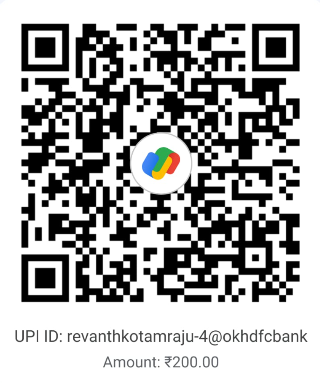
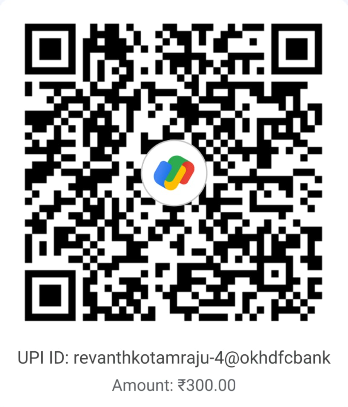
Update fees, timeline CMS, and announcement details

Changed region(s): [[0.0625, 0.0574, 0.9375, 0.8042], [0.0312, 0.8616, 0.9688, 0.9765]]

diff --git a/src/components/Timeline.jsx b/src/components/Timeline.jsx
@@ -1,22 +1,47 @@
-import { useEffect, useRef } from 'react'
+import { useEffect, useRef } from 'react'
 import { gsap } from 'gsap'
 import { ScrollTrigger } from 'gsap/ScrollTrigger'
 import { ClipboardList, Gavel, Shirt, Swords, Trophy, PartyPopper } from 'lucide-react'
 
 gsap.registerPlugin(ScrollTrigger)
 
-const events = [
-  { icon:<ClipboardList size={20}/>, title:'Registrations Open', date:'Coming Soon', desc:'Register online and pay the Rs.200 entry fee to join the player pool.' },
-  { icon:<Gavel         size={20}/>, title:'Player Auction',      date:'Coming Soon', desc:'Faculty team owners bid for players in a high-energy live auction.' },
-  { icon:<Shirt         size={20}/>, title:'Team Reveal',         date:'Coming Soon', desc:'Final squads announced and jersey numbers assigned.' },
-  { icon:<Swords        size={20}/>, title:'League Matches',      date:'Coming Soon', desc:'Round-robin T10 league stage â€” every match, every ball counts.' },
-  { icon:<Trophy        size={20}/>, title:'Knockouts & Finals',  date:'Coming Soon', desc:'Semi-finals and the Grand Finale for the VPL championship.' },
-  { icon:<PartyPopper   size={20}/>, title:'Awards Ceremony',     date:'Coming Soon', desc:'Best Batsman, Bowler, and Player of Tournament awarded.' },
+const EVENT_ICONS = [
+  <ClipboardList size={20} />,
+  <Gavel size={20} />,
+  <Shirt size={20} />,
+  <Swords size={20} />,
+  <Trophy size={20} />,
+  <PartyPopper size={20} />,
 ]
 
-export default function Timeline() {
-  const lineRef  = useRef(null)
+const DEFAULT_EVENTS = [
+  { title: 'Registrations Open', date: 'Coming Soon', desc: 'Register online and pay the Rs.300 entry fee to join the player pool.' },
+  { title: 'Player Auction', date: 'Coming Soon', desc: 'Faculty team owners bid for players in a high-energy live auction.' },
+  { title: 'Team Reveal', date: 'Coming Soon', desc: 'Final squads announced and jersey numbers assigned.' },
+  { title: 'League Matches', date: 'Coming Soon', desc: 'Round-robin T10 league stage where every match and every ball counts.' },
+  { title: 'Knockouts & Finals', date: 'Coming Soon', desc: 'Semi-finals and the Grand Finale for the VPL championship.' },
+  { title: 'Awards Ceremony', date: 'Coming Soon', desc: 'Best Batsman, Bowler, and Player of the Tournament will be recognized.' },
+]
+
+function buildTimelineEvents(settings) {
+  const sourceEvents = Array.isArray(settings?.timelineEvents) && settings.timelineEvents.length
+    ? settings.timelineEvents
+    : DEFAULT_EVENTS
+
+  return sourceEvents.map((event, index) => ({
+    icon: EVENT_ICONS[index] || <ClipboardList size={20} />,
+    title: event?.title || DEFAULT_EVENTS[index]?.title || '',
+    date: event?.date || 'Coming Soon',
+    desc: event?.desc || DEFAULT_EVENTS[index]?.desc || '',
+  }))
+}
+
+export default function Timeline({ settings }) {
+  const lineRef = useRef(null)
   const itemRefs = useRef([])
+  const sectionTitle = settings?.timelineSectionTitle || 'Tournament Timeline'
+  const timelineWindow = settings?.timelineWindow || 'July - August'
+  const events = buildTimelineEvents(settings)
 
   useEffect(() => {
     const ctx = gsap.context(() => {
@@ -39,43 +64,41 @@ export default function Timeline() {
   }, [])
 
   return (
-    <section style={{ padding:'100px 0', background:'#06060a' }}>
+    <section style={{ padding: '100px 0', background: '#06060a' }}>
       <div className="wrap">
-        <div style={{ textAlign:'center', marginBottom:72 }}>
-          <h2 className="section-heading fire-text" style={{ marginBottom:8 }}>Tournament Timeline</h2>
+        <div style={{ textAlign: 'center', marginBottom: 72 }}>
+          <h2 className="section-heading fire-text" style={{ marginBottom: 8 }}>{sectionTitle}</h2>
           <span className="divider" />
+          <p style={{ fontFamily: '"DM Sans",system-ui,sans-serif', color: '#f5a100', fontSize: '.86rem', fontWeight: 700, letterSpacing: '.08em', textTransform: 'uppercase', margin: '14px 0 0' }}>
+            {timelineWindow}
+          </p>
         </div>
 
-        {/* â”€â”€ Desktop: alternating 2-column â”€â”€ */}
-        <div className="tl-desktop" style={{ position:'relative', maxWidth:900, margin:'0 auto' }}>
-          {/* Center line */}
+        <div className="tl-desktop" style={{ position: 'relative', maxWidth: 900, margin: '0 auto' }}>
           <div ref={lineRef} style={{
-            position:'absolute', left:'50%', top:0, bottom:0, width:2,
-            background:'linear-gradient(180deg, transparent 0%, #ff6b22 10%, #f5a100 50%, #ff6b22 90%, transparent 100%)',
-            transform:'translateX(-50%)', transformOrigin:'top',
+            position: 'absolute', left: '50%', top: 0, bottom: 0, width: 2,
+            background: 'linear-gradient(180deg, transparent 0%, #ff6b22 10%, #f5a100 50%, #ff6b22 90%, transparent 100%)',
+            transform: 'translateX(-50%)', transformOrigin: 'top',
           }} />
 
-          <div style={{ display:'flex', flexDirection:'column', gap:44 }}>
+          <div style={{ display: 'flex', flexDirection: 'column', gap: 44 }}>
             {events.map((ev, i) => {
               const isLeft = i % 2 === 0
               return (
-                <div key={i} style={{ display:'grid', gridTemplateColumns:'1fr 48px 1fr', alignItems:'center' }}>
-                  {/* Left slot */}
-                  <div style={{ padding:'0 28px 0 0', display:'flex', justifyContent:'flex-end' }}>
+                <div key={i} style={{ display: 'grid', gridTemplateColumns: '1fr 48px 1fr', alignItems: 'center' }}>
+                  <div style={{ padding: '0 28px 0 0', display: 'flex', justifyContent: 'flex-end' }}>
                     {isLeft && (
-                      <div ref={el => itemRefs.current[i] = el} className="halo" style={{ padding:'20px 22px', maxWidth:380, width:'100%', opacity:0 }}>
+                      <div ref={el => itemRefs.current[i] = el} className="halo" style={{ padding: '20px 22px', maxWidth: 380, width: '100%', opacity: 0 }}>
                         <CardContent ev={ev} />
                       </div>
                     )}
                   </div>
-                  {/* Dot */}
-                  <div style={{ display:'flex', justifyContent:'center', alignItems:'center', zIndex:2 }}>
-                    <div style={{ width:15, height:15, borderRadius:'50%', background:'#06060a', border:'2.5px solid #ff6b22', boxShadow:'0 0 12px rgba(255,107,34,.5)' }} />
+                  <div style={{ display: 'flex', justifyContent: 'center', alignItems: 'center', zIndex: 2 }}>
+                    <div style={{ width: 15, height: 15, borderRadius: '50%', background: '#06060a', border: '2.5px solid #ff6b22', boxShadow: '0 0 12px rgba(255,107,34,.5)' }} />
                   </div>
-                  {/* Right slot */}
-                  <div style={{ padding:'0 0 0 28px', display:'flex', justifyContent:'flex-start' }}>
+                  <div style={{ padding: '0 0 0 28px', display: 'flex', justifyContent: 'flex-start' }}>
                     {!isLeft && (
-                      <div ref={el => itemRefs.current[i] = el} className="halo" style={{ padding:'20px 22px', maxWidth:380, width:'100%', opacity:0 }}>
+                      <div ref={el => itemRefs.current[i] = el} className="halo" style={{ padding: '20px 22px', maxWidth: 380, width: '100%', opacity: 0 }}>
                         <CardContent ev={ev} />
                       </div>
                     )}
@@ -86,23 +109,19 @@ export default function Timeline() {
           </div>
         </div>
 
-        {/* â”€â”€ Mobile: single vertical line on left â”€â”€ */}
-        <div className="tl-mobile" style={{ position:'relative', maxWidth:520, margin:'0 auto' }}>
-          {/* Left vertical line */}
+        <div className="tl-mobile" style={{ position: 'relative', maxWidth: 520, margin: '0 auto' }}>
           <div style={{
-            position:'absolute', left:20, top:0, bottom:0, width:2,
-            background:'linear-gradient(180deg, transparent 0%, #ff6b22 8%, #f5a100 50%, #ff6b22 92%, transparent 100%)',
+            position: 'absolute', left: 20, top: 0, bottom: 0, width: 2,
+            background: 'linear-gradient(180deg, transparent 0%, #ff6b22 8%, #f5a100 50%, #ff6b22 92%, transparent 100%)',
           }} />
 
-          <div style={{ display:'flex', flexDirection:'column', gap:28 }}>
+          <div style={{ display: 'flex', flexDirection: 'column', gap: 28 }}>
             {events.map((ev, i) => (
-              <div key={i} style={{ display:'flex', alignItems:'flex-start', gap:0 }}>
-                {/* Dot on left line */}
-                <div style={{ flexShrink:0, width:42, display:'flex', justifyContent:'center', paddingTop:18 }}>
-                  <div style={{ width:13, height:13, borderRadius:'50%', background:'#06060a', border:'2.5px solid #ff6b22', boxShadow:'0 0 10px rgba(255,107,34,.45)', flexShrink:0 }} />
+              <div key={i} style={{ display: 'flex', alignItems: 'flex-start', gap: 0 }}>
+                <div style={{ flexShrink: 0, width: 42, display: 'flex', justifyContent: 'center', paddingTop: 18 }}>
+                  <div style={{ width: 13, height: 13, borderRadius: '50%', background: '#06060a', border: '2.5px solid #ff6b22', boxShadow: '0 0 10px rgba(255,107,34,.45)', flexShrink: 0 }} />
                 </div>
-                {/* Card */}
-                <div className="halo" style={{ flex:1, padding:'16px 18px' }}>
+                <div className="halo" style={{ flex: 1, padding: '16px 18px' }}>
                   <CardContent ev={ev} />
                 </div>
               </div>
@@ -125,22 +144,21 @@ export default function Timeline() {
 
 function CardContent({ ev }) {
   return (
-    <div style={{ display:'flex', alignItems:'flex-start', gap:14 }}>
-      <div className="icon-sq" style={{ width:40, height:40, borderRadius:11, flexShrink:0, color:'#ff6b22' }}>
+    <div style={{ display: 'flex', alignItems: 'flex-start', gap: 14 }}>
+      <div className="icon-sq" style={{ width: 40, height: 40, borderRadius: 11, flexShrink: 0, color: '#ff6b22' }}>
         {ev.icon}
       </div>
       <div>
-        <span style={{ color:'#f5a100', fontSize:'.67rem', fontWeight:700, textTransform:'uppercase', letterSpacing:'.12em', display:'block', marginBottom:4 }}>
+        <span style={{ color: '#f5a100', fontSize: '.67rem', fontWeight: 700, textTransform: 'uppercase', letterSpacing: '.12em', display: 'block', marginBottom: 4 }}>
           {ev.date}
         </span>
-        <h3 style={{ fontFamily:'"Syne",system-ui,sans-serif', fontWeight:700, fontSize:'.92rem', color:'#efefef', marginBottom:5 }}>
+        <h3 style={{ fontFamily: '"Syne",system-ui,sans-serif', fontWeight: 700, fontSize: '.92rem', color: '#efefef', marginBottom: 5 }}>
           {ev.title}
         </h3>
-        <p style={{ fontFamily:'"DM Sans",system-ui,sans-serif', color:'#8b8b8b', fontSize:'.82rem', lineHeight:1.65 }}>
+        <p style={{ fontFamily: '"DM Sans",system-ui,sans-serif', color: '#8b8b8b', fontSize: '.82rem', lineHeight: 1.65 }}>
           {ev.desc}
         </p>
       </div>
     </div>
   )
 }
-

diff --git a/src/pages/AdminDashboard.jsx b/src/pages/AdminDashboard.jsx
@@ -36,6 +36,14 @@ const DEFAULT_STUDENT_COORDINATORS = [
   { name: 'Sk.Imam', section: 'Student Coordinator', phone: '' },
   { name: 'T.Revanth Goud', section: 'Student Coordinator', phone: '' },
 ]
+const DEFAULT_TIMELINE_EVENTS = [
+  { title: 'Registrations Open', date: 'Coming Soon', desc: 'Register online and pay the Rs.300 entry fee to join the player pool.' },
+  { title: 'Player Auction', date: 'Coming Soon', desc: 'Faculty team owners bid for players in a high-energy live auction.' },
+  { title: 'Team Reveal', date: 'Coming Soon', desc: 'Final squads announced and jersey numbers assigned.' },
+  { title: 'League Matches', date: 'Coming Soon', desc: 'Round-robin T10 league stage where every match and every ball counts.' },
+  { title: 'Knockouts & Finals', date: 'Coming Soon', desc: 'Semi-finals and the Grand Finale for the VPL championship.' },
+  { title: 'Awards Ceremony', date: 'Coming Soon', desc: 'Best Batsman, Bowler, and Player of the Tournament will be recognized.' },
+]
 
 export default function AdminDashboard() {
   const navigate = useNavigate()
@@ -449,10 +457,18 @@ function buildCMSForm(settings) {
   const sourceCoordinators = Array.isArray(source.studentCoordinators) && source.studentCoordinators.length
     ? source.studentCoordinators
     : DEFAULT_STUDENT_COORDINATORS
+  const sourceTimelineEvents = Array.isArray(source.timelineEvents) && source.timelineEvents.length
+    ? source.timelineEvents
+    : DEFAULT_TIMELINE_EVENTS
   const normalizedCoordinators = sourceCoordinators.map((c) => ({
     name: c?.name || '',
     section: c?.section || c?.role || '',
     phone: c?.phone || '',
+  }))
+  const normalizedTimelineEvents = sourceTimelineEvents.map((event, index) => ({
+    title: event?.title || DEFAULT_TIMELINE_EVENTS[index]?.title || '',
+    date: event?.date || 'Coming Soon',
+    desc: event?.desc || DEFAULT_TIMELINE_EVENTS[index]?.desc || '',
   }))
   return {
     ...source,
@@ -472,6 +488,9 @@ function buildCMSForm(settings) {
     registerSectionTitle: source.registerSectionTitle || 'Register Now',
     registrationClosedTitle: source.registrationClosedTitle || 'Registrations Closed',
     registrationClosedMessage: source.registrationClosedMessage || 'Player registrations for the Vignan Premier League are temporarily closed. Please check the WhatsApp group for updates or contact our coordinators.',
+    timelineSectionTitle: source.timelineSectionTitle || 'Tournament Timeline',
+    timelineWindow: source.timelineWindow || 'July - August',
+    timelineEvents: normalizedTimelineEvents,
     studentCoordinators: normalizedCoordinators,
     winners: Array.isArray(source.winners) ? source.winners : [],
   }
@@ -669,6 +688,59 @@ function CMSPanel({ settings, onSave, saving, isCompact }) {
                <input value={form.whatsappLink} onChange={e => updateForm('whatsappLink', e.target.value)}
                   style={{ width: '100%', padding: 12, background: '#1a1a1a', borderRadius: 8, color: '#fff', fontSize: '.95rem' }} />
             </label>
+         </div>
+      </div>
+
+      {/* Timeline Controls */}
+      <div style={{ background: '#111', padding: 24, borderRadius: 16, border: '1px solid rgba(255,255,255,.08)', marginBottom: 24 }}>
+         <div style={{ display: 'flex', justifyContent: 'space-between', alignItems: 'center', marginBottom: 16, gap: 12 }}>
+           <div>
+             <h3 style={{ fontSize: '1.1rem', color: '#fff', marginBottom: 4 }}>Timeline Content</h3>
+             <p style={{ color: '#8a8a8a', fontSize: '.8rem', marginTop: 4 }}>Edit the timeline section title, season window, and each event card shown on the home page.</p>
+           </div>
+           <button
+             type="button"
+             onClick={() => updateForm('timelineEvents', DEFAULT_TIMELINE_EVENTS.map((event) => ({ ...event })))}
+             style={{ display: 'flex', alignItems: 'center', gap: 6, padding: '6px 12px', background: 'rgba(245,158,11,.12)', color: '#f5a100', border: '1px solid rgba(245,158,11,.25)', borderRadius: 8, cursor: 'pointer', fontSize: '.8rem' }}
+           >
+             Load Defaults
+           </button>
+         </div>
+
+         <div style={{ display: 'grid', gridTemplateColumns: isCompact ? '1fr' : '1fr 1fr', gap: 12, marginBottom: 16 }}>
+           <label>
+             <span style={{ display: 'block', color: '#8a8a8a', fontSize: '.85rem', marginBottom: 6 }}>Timeline Section Title</span>
+             <input value={form.timelineSectionTitle || ''} onChange={e => updateForm('timelineSectionTitle', e.target.value)}
+               style={{ width: '100%', padding: 12, background: '#1a1a1a', borderRadius: 8, color: '#fff', fontSize: '.95rem' }} />
+           </label>
+           <label>
+             <span style={{ display: 'block', color: '#8a8a8a', fontSize: '.85rem', marginBottom: 6 }}>Timeline Window</span>
+             <input value={form.timelineWindow || ''} onChange={e => updateForm('timelineWindow', e.target.value)}
+               style={{ width: '100%', padding: 12, background: '#1a1a1a', borderRadius: 8, color: '#fff', fontSize: '.95rem' }} />
+           </label>
+         </div>
+
+         <div style={{ display: 'flex', flexDirection: 'column', gap: 12 }}>
+            {form.timelineEvents.map((event, i) => (
+              <div key={i} style={{ background: '#1a1a1a', padding: 14, borderRadius: 10, border: '1px solid rgba(255,255,255,.05)' }}>
+                 <div style={{ display: 'grid', gridTemplateColumns: isCompact ? '1fr' : '1.4fr .8fr', gap: 12, marginBottom: 12 }}>
+                   <label>
+                     <span style={{ display: 'block', color: '#8a8a8a', fontSize: '.8rem', marginBottom: 6 }}>Event Title</span>
+                     <input value={event.title} onChange={e => handleArrayUpdate('timelineEvents', i, 'title', e.target.value)} style={{ width: '100%', padding: 10, background: '#222', border: 'none', color: '#fff', borderRadius: 6 }} />
+                   </label>
+                   <label>
+                     <span style={{ display: 'block', color: '#8a8a8a', fontSize: '.8rem', marginBottom: 6 }}>Event Date Label</span>
+                     <input value={event.date} onChange={e => handleArrayUpdate('timelineEvents', i, 'date', e.target.value)} style={{ width: '100%', padding: 10, background: '#222', border: 'none', color: '#fff', borderRadius: 6 }} />
+                   </label>
+                 </div>
+                 <label>
+                   <span style={{ display: 'block', color: '#8a8a8a', fontSize: '.8rem', marginBottom: 6 }}>Description</span>
+                   <textarea value={event.desc} onChange={e => handleArrayUpdate('timelineEvents', i, 'desc', e.target.value)}
+                     rows={2}
+                     style={{ width: '100%', padding: 10, background: '#222', border: 'none', color: '#fff', borderRadius: 6, resize: 'vertical' }} />
+                 </label>
+              </div>
+            ))}
          </div>
       </div>
 

diff --git a/src/components/Registration.jsx b/src/components/Registration.jsx
@@ -93,7 +93,6 @@ export default function Registration() {
   const successCardRef = useRef(null)
   const whatsappLink = settings?.whatsappLink || 'https://chat.whatsapp.com/L7HXdLMblNRGTNwJbMZPVE?mode=gi_t'
   const registerSectionTitle = settings?.registerSectionTitle || 'Register Now'
-  const closedTitle = settings?.registrationClosedTitle || 'Registrations Closed'
   const closedMessage = settings?.registrationClosedMessage || 'Player registrations for the Vignan Premier League are temporarily closed. Please check the WhatsApp group for updates or contact our coordinators.'
 
   useEffect(() => {
@@ -132,7 +131,9 @@ export default function Registration() {
         setData(nextData)
         if (Number.isInteger(draft.step) && draft.step >= 1 && draft.step <= 5) setStep(draft.step)
         setTermsAccepted(Boolean(draft.termsAccepted))
-      } catch {}
+      } catch {
+        // Ignore malformed local draft data and continue with a fresh form state.
+      }
       finally {
         if (active) setDraftLoaded(true)
       }
@@ -179,7 +180,9 @@ export default function Registration() {
         }
 
         localStorage.setItem(REGISTRATION_DRAFT_KEY, JSON.stringify(draft))
-      } catch {}
+      } catch {
+        // Draft persistence is best-effort and should not block registration.
+      }
     }
 
     persistDraft()

diff --git a/src/components/reg/Step4_Payment.jsx b/src/components/reg/Step4_Payment.jsx
@@ -2,7 +2,7 @@
 import { Upload, Image } from 'lucide-react'
 import { fieldStyle, labelStyle, errorStyle, FocusInput } from './fieldStyles'
 
-const UPI_PAYMENT_LINK = 'upi://pay?pa=revanthkotamraju-4@okhdfcbank&am=200.00&cu=INR'
+const UPI_PAYMENT_LINK = 'upi://pay?pa=revanthkotamraju-4@okhdfcbank&am=300.00&cu=INR'
 
 export default function Step4_Payment({ data, setData, errors }) {
   const [uploadErr, setUploadErr] = useState('')
@@ -38,7 +38,7 @@ export default function Step4_Payment({ data, setData, errors }) {
   return (
     <div>
       <h3 className="step-title">Payment</h3>
-      <p className="step-desc">Pay Rs.200 by scanning the QR below, then enter your UTR and upload the payment screenshot as proof.</p>
+      <p className="step-desc">Pay Rs.300 by scanning the QR below, then enter your UTR and upload the payment screenshot as proof.</p>
 
       <div
         style={{
@@ -49,7 +49,7 @@ export default function Step4_Payment({ data, setData, errors }) {
         }}
       >
         <p style={{ fontFamily: '"DM Sans"', color: '#8a8a8a', fontSize: '.7rem', textTransform: 'uppercase', letterSpacing: '.12em', marginBottom: 8, fontWeight: 600 }}>
-          Registration Fee - Rs.200
+          Registration Fee - Rs.300
         </p>
         <img
           src="/gpay-qr.png"

diff --git a/src/components/Terms.jsx b/src/components/Terms.jsx
@@ -2,7 +2,7 @@ import * as Accordion from '@radix-ui/react-accordion'
 import { ChevronDown, Ban, Calendar, AlertOctagon, CalendarClock, Gavel } from 'lucide-react'
 
 const terms = [
-  { icon:<Ban size={13} color="#ff6b22"/>,          title:'Fee Policy',         body:'The ₹200 registration fee is non-refundable under any circumstances.' },
+  { icon:<Ban size={13} color="#ff6b22"/>,          title:'Fee Policy',         body:'The ₹300 registration fee is non-refundable under any circumstances.' },
   { icon:<Calendar size={13} color="#ff6b22"/>,     title:'Auction Attendance', body:'All registered players must attend the auction ceremony or forfeit their fee.' },
   { icon:<AlertOctagon size={13} color="#ff6b22"/>, title:'Code of Conduct',    body:'Misconduct of any kind leads to immediate disqualification.' },
   { icon:<CalendarClock size={13} color="#ff6b22"/>,title:'Schedule Changes',   body:'Tournament dates may change. All schedule changes communicated in advance.' },

diff --git a/src/MainSite.jsx b/src/MainSite.jsx
@@ -15,7 +15,6 @@ const MARQUEE_HEIGHT = 49
 
 function ContactStrip({ settings }) {
   const whatsappLink = settings?.whatsappLink || "https://chat.whatsapp.com/L7HXdLMblNRGTNwJbMZPVE?mode=gi_t";
-  const coordinators = settings?.studentCoordinators || [];
   const supportTitle = settings?.supportTitle || 'Need help?'
   const supportDescription = settings?.supportDescription || 'Reach out for registration queries, rule clarifications, or anything about VPL 2025.'
   const supportWhatsappLabel = settings?.supportWhatsappLabel || 'WhatsApp Group'
@@ -154,7 +153,7 @@ export default function MainSite() {
         <Hero settings={settings} topOffset={heroOffset} />
         <About />
         <HowItWorks />
-        <Timeline />
+        <Timeline settings={settings} />
         <Prizes winners={settings?.winners} />
         <ContactStrip settings={settings} />
       </main>

diff --git a/src/components/HowItWorks.jsx b/src/components/HowItWorks.jsx
@@ -3,7 +3,7 @@ import { animate, stagger } from 'animejs'
 import { UserPlus, Gavel, Users, Trophy } from 'lucide-react'
 
 const steps = [
-  { n: '01', icon: <UserPlus size={22} />, title: 'Register', desc: 'Register online and pay Rs. 200 to enter the player pool.' },
+  { n: '01', icon: <UserPlus size={22} />, title: 'Register', desc: 'Register online and pay Rs. 300 to enter the player pool.' },
   { n: '02', icon: <Gavel size={22} />, title: 'Auction', desc: 'Faculty team owners bid for players in a live auction.' },
   { n: '03', icon: <Users size={22} />, title: 'Get Drafted', desc: 'Join your team and prepare for the tournament.' },
   { n: '04', icon: <Trophy size={22} />, title: 'Play & Win', desc: 'Compete in T10 format and chase the VPL trophy.' },

diff --git a/src/pages/SchedulesPage.jsx b/src/pages/SchedulesPage.jsx
@@ -230,7 +230,7 @@ export default function SchedulesPage() {
             Tournament Fixtures
           </h1>
           <p style={{ color: '#bbb', fontSize: '.9rem', lineHeight: 1.7, maxWidth: 500, margin: '0 auto' }}>
-            10 Teams. 2 Groups. 23 Matches. One Champions Trophy. Check back after the auction for finalized dates and team names.
+            10 Teams. 2 Groups. 23 Matches. One Champions Trophy. The tournament runs across July - August, with finalized fixture dates and team names updated here.
           </p>
           <div style={{ width: 40, height: 3, background: 'linear-gradient(90deg,#ff6b22,#ffb800)', borderRadius: 2, margin: '20px auto 0' }} />
         </div>

diff --git a/src/pages/Team.jsx b/src/pages/Team.jsx
@@ -100,7 +100,6 @@ function SectionDivider({ text }) {
 /* ── Person Card ───────────────────────────────────────────────────────────── */
 function PersonCard({ person, index, delay = 100, large = false }) {
   const visible = useFadeIn(delay + index * 120)
-  const [expanded, setExpanded] = useState(false)
   const acc = person.accent
 
   return (
